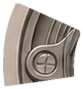
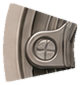
9 o'clock sector: restore lower edge, bring the true upper edge to 198

diff --git a/index.html b/index.html
@@ -278,7 +278,7 @@
               <img class="cb-rig-static" src="/assets/caseback/rig/static-support-top.webp" style="left:55.502%;top:55.901%;width:3.828%;height:5.104%" alt="" decoding="async">
               <img class="cb-rig-static" src="/assets/caseback/rig/static-support-toptab.webp" style="left:54.147%;top:58.692%;width:2.313%;height:2.711%" alt="" decoding="async">
               <img class="cb-rig-static" src="/assets/caseback/rig/static-sec-eleven.webp" style="left:45.694%;top:56.619%;width:6.140%;height:6.140%" alt="" decoding="async">
-              <img class="cb-rig-static" src="/assets/caseback/rig/static-sec-nine.webp" style="left:42.105%;top:62.679%;width:6.619%;height:7.097%" alt="" decoding="async">
+              <img class="cb-rig-static" src="/assets/caseback/rig/static-sec-nine.webp" style="left:42.105%;top:63.796%;width:6.380%;height:6.778%" alt="" decoding="async">
               <img class="cb-rig-static" src="/assets/caseback/rig/static-support-bottom.webp" style="left:55.423%;top:72.807%;width:2.472%;height:5.183%" alt="" decoding="async">
               <img class="cb-rig-static" src="/assets/caseback/rig/static-support-bl-pad.webp" style="left:47.767%;top:72.488%;width:5.343%;height:6.380%" alt="" decoding="async">
               <img class="cb-rig-static" src="/assets/caseback/rig/static-support-bl-arm.webp" style="left:50.239%;top:71.531%;width:3.190%;height:3.429%" alt="" decoding="async">
